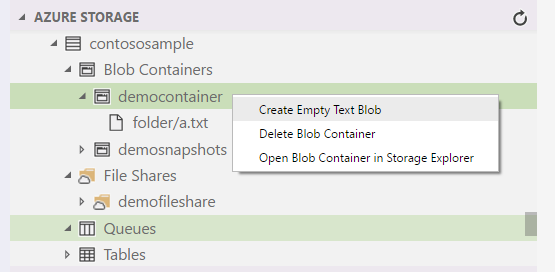
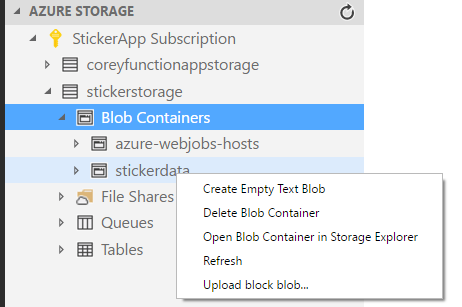
Prepare for 0.3.0 release

diff --git a/README.md b/README.md
@@ -8,13 +8,15 @@ The Azure Storage extension for VS Code lets you browse Azure Blob Containers, F
 
   ![Create Blob Containers](resources/createBlobContainerScreenshot.png)
 
+* Create, Edit, and Delete Block Blobs and Files
+
+* Upload and Download Blobs up to 4MB in size
+
+   ![Create Block Blobs](resources/blobContainerActionsScreenshot.png)
+
 * Access Connection String and Primary Key
 
    ![Copy Connection String and Primary Key](resources/storageActionsScreenshot.png)
-
-* Create/Edit/Delete Block Blobs and Files
-
-   ![Create Block Blobs](resources/blobContainerActionsScreenshot.png)
 
 * Open in Storage Explorer for memory or computationally heavy tasks, or for upload/download of large or non-text files.
 
@@ -49,6 +51,7 @@ This extension focuses on simple developer and editing scenarios that are conven
 * Viewing diagnostics and logs tables is not supported.
 * Viewing the contents of tables and queues is not supported.
 * Uploading or downloading binary files (except images) is not supported.
+* Uploading or downloading of blobs is limited to text file types, block blobs and up to 4MB in size. Uploading and downloading of files in file shares is not currently supported.
 
 For these scenarios and other advanced features, please use [Microsoft Azure Storage Explorer](https://storageexplorer.com), which is free and available cross-platform for Linux, MacOS and Windows.
 Feedback on supported or desired features, as well as issues that you find, is always encouraged. Simply enter an [issue](https://github.com/Microsoft/vscode-azurestorage/issues).

diff --git a/CHANGELOG.md b/CHANGELOG.md
@@ -1,6 +1,17 @@
 # Change Log
 All notable changes to the "vscode-azurestorage" extension will be documented in this file.
 
+## 0.3.0 - 2018-04-05
+### Added
+- Upload and download block blobs with text contents, up to 4MB
+- Refresh menu added to additional nodes in the tree
+- New filter button on subscription nodes to make selecting Azure subscriptions easier
+
+### Fixed
+- Saving a blob from the editor will no longer cause loss of content type and other properties
+- Will no longer overwrite an existing blob when creating a new one with the same name
+- Removed redundant Close button in some dialogs
+
 ## 0.2.0 - 2018-02-02
 ### Added
 - Create and delete blob containers, file shares, queues and tables
